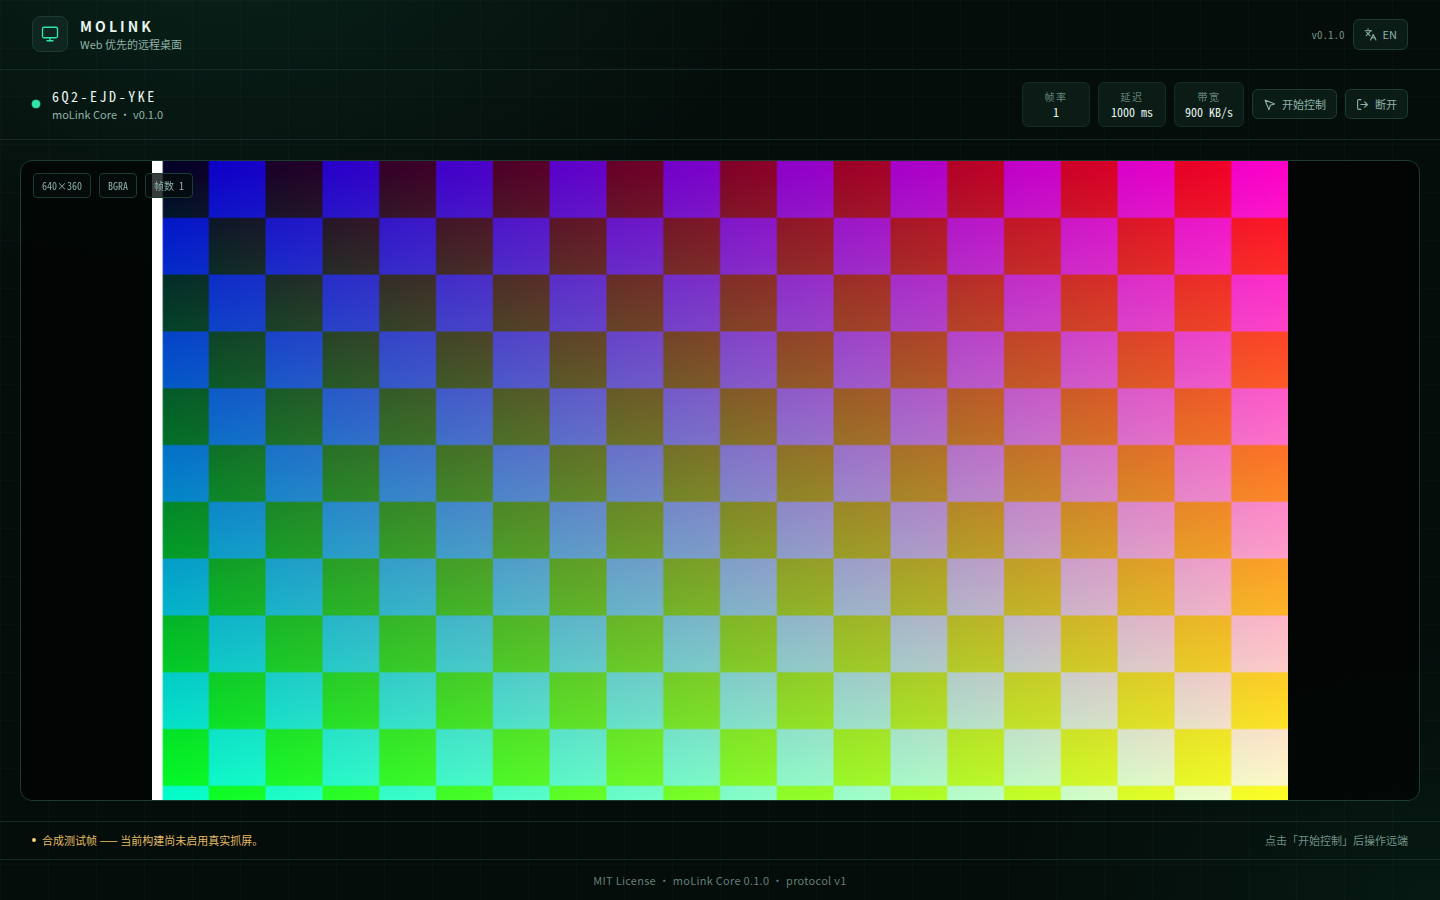
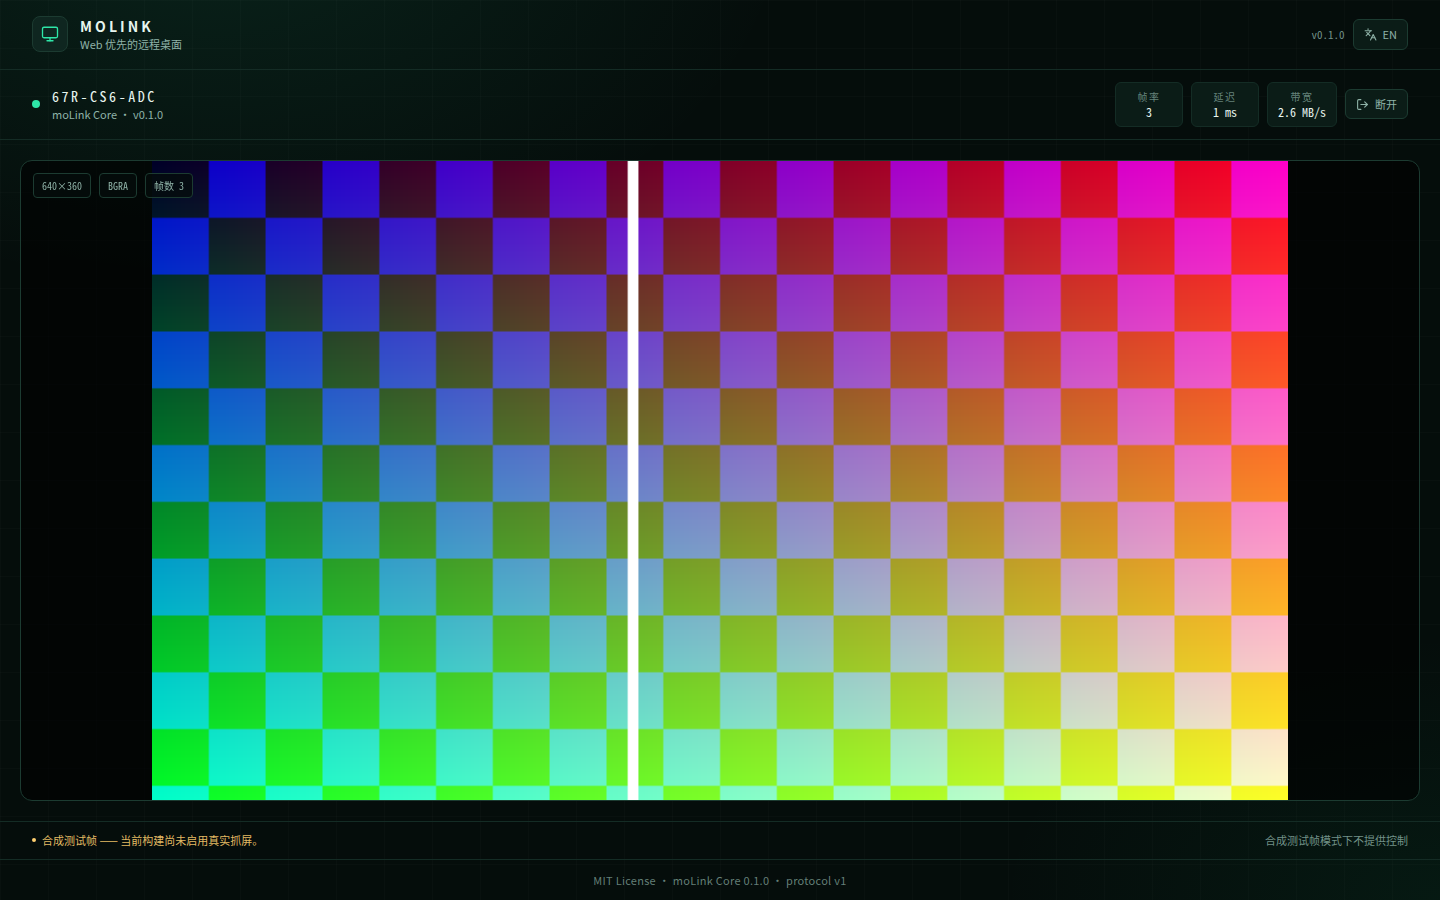
Disable control mode while the synthetic test pattern is shown
Injecting input without a real picture would act on the desktop blindly.
Hide the control toggle and explain why in the footer; refresh the
screenshot to match.

diff --git a/frontend/src/components/SessionView.tsx b/frontend/src/components/SessionView.tsx
@@ -54,7 +54,10 @@ export function SessionView() {
   const setControlEnabled = useSessionStore((state) => state.setControlEnabled)
   const disconnect = useSessionStore((state) => state.disconnect)
 
-  const inputAvailable = welcome?.input === true
+  const synthetic = welcome?.tiles.synthetic === true
+  // Blind input into a real desktop is not useful and can be destructive:
+  // control stays off whenever the picture is a test pattern.
+  const inputAvailable = welcome?.input === true && !synthetic
   const surfaceRef = useRef<HTMLDivElement>(null)
   const pendingMove = useRef<{ x: number; y: number } | null>(null)
   const moveScheduled = useRef(false)
@@ -292,7 +295,9 @@ export function SessionView() {
             ? t('session.controlOnHint')
             : inputAvailable
               ? t('session.controlHint')
-              : t('session.inputUnavailable')}
+              : synthetic
+                ? t('session.controlSynthetic')
+                : t('session.inputUnavailable')}
         </span>
       </div>
     </div>
